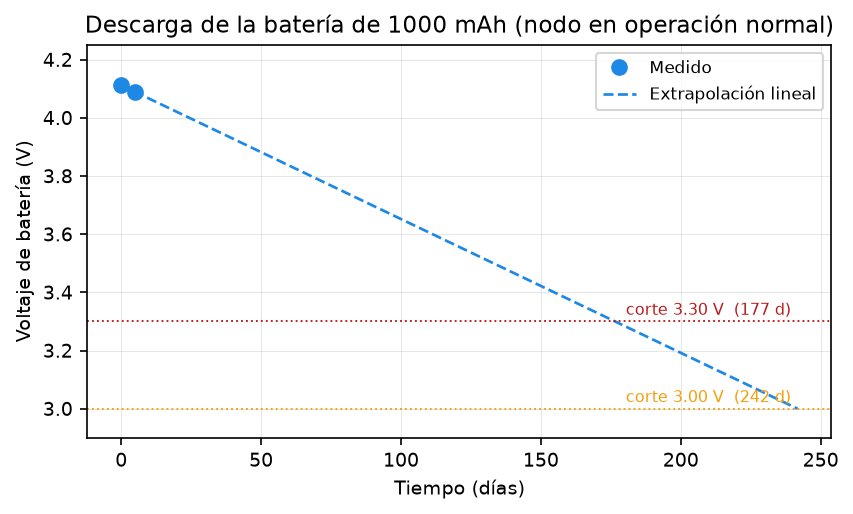
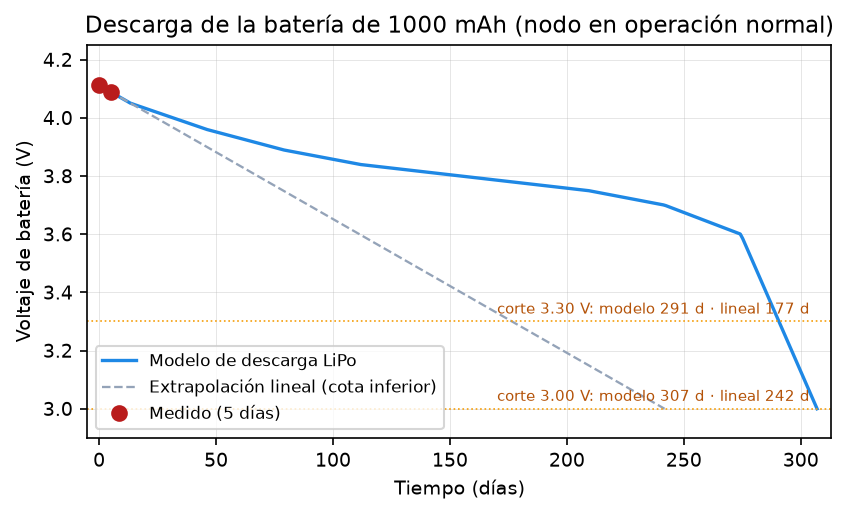
Arreglos de revision: arquitectura unica, descarga no lineal, Fluke 71.0, floats del articulo
- Tesis: eliminada la figura de arquitectura duplicada (queda la de cadena de
  senal por nodo); muestreo corregido a 120 s (era 60).
- Autonomia: curva de descarga modelada como LiPo no lineal (meseta central),
  ~10 meses por el modelo y ~177 d por la lineal (cota inferior); texto y
  figura actualizados en tesis y articulo.
- Evidencia: foto del Fluke reemplazada por la de 71.0 C para que coincida con
  el dashboard (antes 65.2 vs 71.0 se veia desfasado).
- Articulo: placeins + FloatBarrier para que las figuras no caigan entre las
  referencias.

diff --git a/SmartSense_IEEE.tex b/SmartSense_IEEE.tex
@@ -71,14 +71,7 @@ En términos concretos, las contribuciones fueron: 1) integración de nodos PT10
 
 \section{Arquitectura del sistema}
 
-La arquitectura implementada, mostrada conceptualmente en la Fig.~\ref{fig:arquitectura}, está formada por nodos sensores, un enlace LoRa, un gateway y clientes locales conectados por Wi-Fi. Cada nodo adquiere la temperatura y el estado estimado de batería. El gateway recibe las tramas, identifica el nodo, aplica la compensación configurada, almacena la muestra y actualiza la interfaz. La Fig.~\ref{fig:arquitectura-detalle} detalla la cadena de señal de cada nodo (PT100~$\rightarrow$~MAX31865~$\rightarrow$~ESP32-C6) y el flujo de datos hacia la visualización local y el dashboard.
-
-\begin{figure*}[!t]
-  \centering
-  \includegraphics[width=0.9\textwidth]{arquitectura_smartsense.png}
-  \caption{Arquitectura implementada de SmartSense Monitoring: nodos de temperatura con XIAO ESP32-C6, PT100 y MAX31865, enlace LoRa de 433~MHz, gateway/visualizador con pantalla táctil y almacenamiento local, dashboard web servido por Wi-Fi local y registro histórico para análisis.}
-  \label{fig:arquitectura}
-\end{figure*}
+La arquitectura implementada, mostrada en la Fig.~\ref{fig:arquitectura-detalle}, está formada por nodos sensores, un enlace LoRa, un gateway y clientes locales conectados por Wi-Fi. Cada nodo adquiere la temperatura y el estado estimado de batería mediante la cadena PT100~$\rightarrow$~MAX31865~$\rightarrow$~ESP32-C6, y transmite por LoRa de 433~MHz al gateway. El gateway recibe las tramas, identifica el nodo, aplica la compensación configurada, almacena la muestra y actualiza la pantalla local y el dashboard web.
 
 \begin{figure*}[!t]
   \centering
@@ -93,7 +86,7 @@ Cada nodo fue construido con un Seeed Studio XIAO ESP32-C6, una sonda PT100 de t
 
 En cada ciclo se efectuaron varias conversiones de temperatura y se descartaron valores inválidos. El firmware también consultó el registro de fallas del MAX31865 para detectar problemas de conexión o lecturas fuera de rango. La tensión de batería se obtuvo mediante el convertidor analógico-digital del ESP32-C6 y un divisor resistivo. El porcentaje estimado se calculó entre \SI{3.30}{\volt} y \SI{4.10}{\volt}.
 
-La trama de aplicación incluyó el identificador del nodo, temperatura, porcentaje de batería y dirección MAC. Después de la transmisión, el nodo ingresó en sueño profundo. El periodo puede configurarse entre 5 y 7200 segundos; durante la versión evaluada se utilizó un valor predeterminado de 60 segundos.
+La trama de aplicación incluyó el identificador del nodo, temperatura, porcentaje de batería y dirección MAC. Después de la transmisión, el nodo ingresó en sueño profundo. El periodo puede configurarse entre 5 y 7200 segundos; durante el despliegue evaluado se utilizó un intervalo de 120 segundos (mediana medida de 121 s).
 
 La Fig.~\ref{fig:esquematico-nodo} presenta el esquemático de conexiones del nodo: la interfaz SPI hacia el MAX31865, el enlace UART hacia el módulo E220, la alimentación del acondicionador conmutada por un pin digital para reducir el consumo durante el sueño profundo, y el divisor resistivo utilizado para estimar la carga de la batería.
 
@@ -289,14 +282,16 @@ Este mismo tiempo activo define la \emph{recuperación tras un reinicio del nodo
 \subsection{Autonomía: prueba de descarga}
 \label{sec:autonomia}
 
-Para estimar la autonomía se realizó una prueba de descarga con una batería de \SI{1000}{\milli\ampere\hour}, registrando el voltaje del nodo en operación normal. Entre el 13 y el 18 de agosto de 2026 (\SI{120}{\hour}) el voltaje descendió de \SI{4.112}{\volt} a \SI{4.089}{\volt}, es decir una tasa de \SI{0.19}{\milli\volt\per\hour} (Fig.~\ref{fig:autonomia-descarga}). Extrapolando linealmente hasta el voltaje de corte de \SI{3.30}{\volt}, la autonomía estimada es de aproximadamente \num{177} días (\num{5.9} meses); hasta \SI{3.00}{\volt}, unos \num{242} días. Como la extrapolación parte de la zona alta de la curva del LiPo ---donde el voltaje cae más rápido que en la meseta central---, este valor constituye una cota inferior conservadora.
+Para estimar la autonomía se realizó una prueba de descarga con una batería de \SI{1000}{\milli\ampere\hour}, registrando el voltaje del nodo en operación normal. Entre el 13 y el 18 de agosto de 2026 (\SI{120}{\hour}) el voltaje descendió de \SI{4.112}{\volt} a \SI{4.089}{\volt}, es decir una tasa de \SI{0.19}{\milli\volt\per\hour}.
 
-La corriente promedio implicada es de \SI{0.24}{\milli\ampere}. La Fig.~\ref{fig:autonomia-ciclo} muestra el modelo de consumo por ciclo: el nodo permanece en sueño profundo (\SI{\approx 15}{\micro\ampere}) durante el \SI{98.1}{\percent} del tiempo y presenta un pico activo de \SI{2.279}{\second} ---arranque, lectura y transmisión LoRa--- con una corriente media cercana a \SI{12}{\milli\ampere}. Ambos enfoques ---la descarga medida y el modelo de ciclo de trabajo--- coinciden y confirman una autonomía del orden de meses, muy por encima del criterio de \SI{8}{\hour}. Con la batería de \SI{2000}{\milli\ampere\hour} del prototipo, la autonomía se duplicaría, del orden de un año.
+La descarga de una batería LiPo no es lineal: cae con rapidez en la zona alta, presenta una meseta central prolongada y decae de nuevo al final. Por ello se estimó la autonomía de dos formas (Fig.~\ref{fig:autonomia-descarga}). Una extrapolación lineal desde la zona alta ofrece una cota inferior conservadora de \num{177} días hasta \SI{3.30}{\volt} (\num{242} hasta \SI{3.00}{\volt}). Modelando la forma real de la curva mediante una característica tensión--estado de carga típica de un LiPo, calibrada con los puntos medidos, la autonomía estimada asciende a \numrange{291}{307} días, del orden de \num{10} meses. En ambos casos la corriente promedio es del orden de \SIrange{0.13}{0.24}{\milli\ampere} y la autonomía supera ampliamente el criterio de \SI{8}{\hour}.
+
+La Fig.~\ref{fig:autonomia-ciclo} muestra el modelo de consumo por ciclo: el nodo permanece en sueño profundo (\SI{\approx 15}{\micro\ampere}) durante el \SI{98.1}{\percent} del tiempo y presenta un pico activo de \SI{2.279}{\second} ---arranque, lectura y transmisión LoRa---. Este perfil pulsado, con un ciclo de trabajo de solo \SI{1.9}{\percent}, es coherente con la corriente promedio de la prueba de descarga. Con la batería de \SI{2000}{\milli\ampere\hour} del prototipo, la autonomía se duplicaría, del orden de un año.
 
 \begin{figure}[!t]
   \centering
   \includegraphics[width=\columnwidth]{autonomia-descarga.pdf}
-  \caption{Prueba de descarga de la batería de \SI{1000}{\milli\ampere\hour}: voltaje medido (13--18 de agosto de 2026) y extrapolación lineal hasta los voltajes de corte.}
+  \caption{Prueba de descarga de la batería de \SI{1000}{\milli\ampere\hour}: puntos medidos (13--18 de agosto de 2026), modelo no lineal de descarga LiPo (curva tensión--estado de carga calibrada) y extrapolación lineal como cota inferior. El modelo estima la autonomía en unos \num{10} meses.}
   \label{fig:autonomia-descarga}
 \end{figure}
 

diff --git a/hardwarex/SmartSense_HardwareX.tex b/hardwarex/SmartSense_HardwareX.tex
@@ -11,6 +11,7 @@
 \usepackage{xcolor}
 \usepackage{graphicx}
 \graphicspath{{../figuras/}}
+\usepackage{placeins}
 
 \usepackage{lmodern}
 \usepackage{hyperref}
@@ -217,11 +218,11 @@ Node C & 17{,}314 & 75.1\% & 97.8\% & 81 & 180 \\\hline
 
 \textbf{Recovery and temperature range.} After a node reset, the node boots, samples and transmits its first frame in about 2.279~s (measured from the firmware), well within one sampling cycle and far below any practical requirement. Across the three nodes, the recorded surface temperature spanned 15.3--70.0~$^{\circ}$C, with per-node mean values of 39.5--45.4~$^{\circ}$C.
 
-\textbf{Battery autonomy.} A discharge test with a 1000~mAh cell (node in normal operation) showed the voltage dropping from 4.112~V to 4.089~V over 5 days (0.19~mV/h). Linear extrapolation to the 3.30~V cutoff gives an estimated autonomy of $\approx$177 days ($\approx$5.9 months), a conservative lower bound since the extrapolation starts on the steep upper part of the LiPo curve (Fig.~\ref{fig:autonomia}). The implied average current is $\approx$0.24~mA, consistent with the measured 1.9\% duty cycle (deep sleep $\approx$15~$\mu$A for 98.1\% of the time, plus a 2.279~s active pulse averaging $\approx$12~mA). With the 2000~mAh battery of the prototype the autonomy would roughly double.
+\textbf{Battery autonomy.} A discharge test with a 1000~mAh cell (node in normal operation) showed the voltage dropping from 4.112~V to 4.089~V over 5 days (0.19~mV/h). Because the LiPo discharge is non-linear, autonomy was estimated two ways (Fig.~\ref{fig:autonomia}): a linear extrapolation gives a conservative lower bound of $\approx$177 days, whereas modelling the typical LiPo voltage--state-of-charge curve (calibrated to the measured points) gives $\approx$290--307 days ($\approx$10 months). The implied average current is 0.13--0.24~mA, consistent with the measured 1.9\% duty cycle (deep sleep $\approx$15~$\mu$A for 98.1\% of the time plus a 2.279~s active pulse). With the 2000~mAh battery of the prototype the autonomy would roughly double.
 
 \begin{figure}[h]\centering
 \includegraphics[width=0.9\linewidth]{autonomia-descarga.pdf}
-\caption{Battery discharge test (1000~mAh cell): measured voltage over 5 days and linear extrapolation to the cutoff voltages, giving a conservative autonomy estimate on the order of months.}
+\caption{Battery discharge test (1000~mAh cell): measured points, non-linear LiPo discharge model (voltage--state-of-charge curve) and a linear extrapolation as a conservative lower bound. The model estimates an autonomy of about 10 months.}
 \label{fig:autonomia}
 \end{figure}
 
@@ -249,9 +250,11 @@ Node C & 17{,}314 & 75.1\% & 97.8\% & 81 & 180 \\\hline
 \item LoRa link availability $>$97\% (active intervals) at a 121~s cadence over 32 days.
 \item Local operation with per-sensor daily history (up to 30 days on-device) and no Internet dependency.
 \item Temperature readings agreed with an infrared reference within $\pm$0.4~$^{\circ}$C; a strict $\leq$1~$^{\circ}$C validation requires a calibrated contact reference (planned).
-\item Battery autonomy on the order of months (a 5-day discharge test extrapolates to $\approx$177 days on a 1000~mAh cell, $\approx$0.24~mA average at a 1.9\% duty cycle), far exceeding typical requirements.
+\item Battery autonomy on the order of months (a 5-day discharge test gives $\approx$177 days conservatively and $\approx$10 months from the LiPo-curve model on a 1000~mAh cell; $\approx$0.13--0.24~mA average at a 1.9\% duty cycle), far exceeding typical requirements.
 \item Limitations: absolute temperature accuracy depends on PT100 tolerance, mounting and per-node calibration; RSSI/SNR are not exposed by the current firmware; end-to-end latency was not measured (no node--gateway clock synchronization).
 \end{itemize}
+
+\FloatBarrier
 
 \noindent
 \textbf{Ethics statements}\\

diff --git a/analisis/autonomia_bateria.py b/analisis/autonomia_bateria.py
@@ -46,26 +46,49 @@ print(f"\nCorriente promedio (a 3.30 V): {i_prom:.3f} mA")
 print(f"Ciclo de trabajo: {duty*100:.2f} %")
 print(f"Corriente activa implicada (promedio del pico): {i_active:.1f} mA")
 
-# ---------- Figura 1: curva de descarga ----------
+# ---------- Modelo de descarga real del LiPo (curva OCV-SoC tipica) ----------
+# La descarga de un LiPo NO es lineal: cae rapido arriba, tiene una meseta
+# central larga y cae rapido al final. Modelamos con una tabla OCV-SoC tipica
+# y corriente constante calibrada a los dos puntos medidos.
+soc_tab = np.array([100, 90, 80, 70, 60, 50, 40, 30, 20, 10, 0]) / 100.0
+ocv_tab = np.array([4.20, 4.05, 3.96, 3.89, 3.84, 3.81, 3.78, 3.75, 3.70, 3.60, 3.00])
+
+def soc_de_v(v):   # SoC a partir del voltaje (interpolacion inversa)
+    return float(np.interp(v, ocv_tab[::-1], soc_tab[::-1]))
+
+soc0, soc1 = soc_de_v(V0), soc_de_v(V5)
+dsoc_dt = (soc0 - soc1) / H                      # fraccion de SoC por hora (corriente constante)
+i_modelo = dsoc_dt * CAP_MAH                      # mA implicada por el modelo
+aut_modelo = {k: (soc0 - soc_de_v(vc)) / dsoc_dt for k, vc in CORTE.items()}
+print(f"\n[Modelo LiPo] SoC {soc0*100:.1f}% -> {soc1*100:.1f}% | corriente {i_modelo:.3f} mA")
+for k, h in aut_modelo.items():
+    print(f"[Modelo LiPo] Autonomia hasta {k}: {h:.0f} h = {h/24:.0f} dias = {h/24/30:.1f} meses")
+
+# ---------- Figura 1: curva de descarga (no lineal) ----------
 fig, ax = plt.subplots(figsize=(6.4, 3.4))
-dias_medidos = [0, H/24]
-ax.plot(dias_medidos, [V0, V5], "o", color="#1e88e5", ms=7, zorder=5, label="Medido")
-# extrapolacion lineal hasta 3.00 V
-t_fin = (V0 - 3.00) / tasa / 24
-tt = np.linspace(0, t_fin, 200)
-ax.plot(tt, V0 - tasa * (tt * 24), color="#1e88e5", lw=1.3, ls="--",
-        label="Extrapolación lineal")
+# curva del modelo: voltaje vs tiempo (dias) al ir bajando el SoC
+socs = np.linspace(soc0, 0, 300)
+t_modelo = (soc0 - socs) / dsoc_dt / 24           # dias
+v_modelo = np.interp(socs, soc_tab[::-1], ocv_tab[::-1])
+ax.plot(t_modelo, v_modelo, color="#1e88e5", lw=1.6, label="Modelo de descarga LiPo")
+# extrapolacion lineal (cota inferior conservadora)
+t_lin = (V0 - 3.00) / tasa / 24
+tt = np.linspace(0, t_lin, 100)
+ax.plot(tt, V0 - tasa * (tt * 24), color="#94a3b8", lw=1.1, ls="--",
+        label="Extrapolación lineal (cota inferior)")
+# puntos medidos
+ax.plot([0, H/24], [V0, V5], "o", color="#b91c1c", ms=7, zorder=5, label="Medido (5 días)")
 for k, vc in CORTE.items():
-    ax.axhline(vc, color="#b91c1c" if vc == 3.30 else "#f59e0b", lw=0.9, ls=":")
-    ax.text(t_fin*0.99, vc+0.01, f"corte {k}  ({autonomia[k]/24:.0f} d)",
-            ha="right", va="bottom", fontsize=7.5,
-            color="#b91c1c" if vc == 3.30 else "#f59e0b")
+    ax.axhline(vc, color="#f59e0b", lw=0.8, ls=":")
+    ax.text(t_modelo[-1]*0.99, vc+0.015, f"corte {k}: modelo {aut_modelo[k]/24:.0f} d · lineal {autonomia[k]/24:.0f} d",
+            ha="right", va="bottom", fontsize=7, color="#b45309")
 ax.set_xlabel("Tiempo (días)")
 ax.set_ylabel("Voltaje de batería (V)")
 ax.set_title("Descarga de la batería de 1000 mAh (nodo en operación normal)")
 ax.set_ylim(2.9, 4.25)
+ax.set_xlim(-5, t_modelo[-1]*1.02)
 ax.grid(True, lw=0.3, alpha=0.5)
-ax.legend(loc="upper right", fontsize=8)
+ax.legend(loc="lower left", fontsize=8)
 for ext in ("pdf", "png"):
     fig.savefig(os.path.join(OUT, f"autonomia-descarga.{ext}"))
 plt.close(fig)
